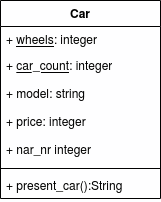
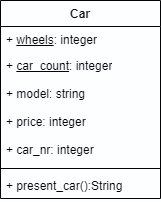
genomgång av oopython guide del 1

diff --git a/content/guide/kom-igang-med-objektorienterad-programmering-i-python/160_privat.md b/content/guide/kom-igang-med-objektorienterad-programmering-i-python/160_privat.md
@@ -1,15 +1,16 @@
 ---
 author: aar
 revision:
+    "2022-01-13": "(C, aar) Tog bort stycke om property decorator."
     "2021-01-13": "(B, aar) Omskriven och la till stycke om property decorator."
     "2020-01-16": "(A, aar) Första versionen, separerade privata attribut från mangling för att få in i kmom01."
 ...
 Information hiding
 ==================================
 
-Information hiding är när man gömmer intern data, så att den inte kan användas på fel sätt eller utanför den egna klassen. Låt oss säga att vi har en klass som har ett attribut som innehåller någon känslig data. Då vill vi inte att det ska gå att använda den hur som helst. Vi vill kanske kontrollera hur värdet sätts, man måste göra en speciell uträkning för att få ett nytt värde, eller att värdet bara är hemligt och man ska inte komma åt det utanför instansmetoder. Vi vill kunna begränsa tillgången till attribut eller metoder utanför klassdefinitionen.
+Information hiding är när man gömmer intern data, så att den inte kan användas på fel sätt eller utanför den egna instansen. Låt oss säga att vi har en klass som har ett attribut som innehåller någon känslig data. Då vill vi inte att det ska gå att använda den hur som helst. Vi vill kanske kontrollera hur värdet sätts, man måste göra en speciell uträkning för att få ett nytt värde, eller att värdet bara är hemligt och man ska inte komma åt det utanför instansmetoder. Vi vill kunna begränsa tillgången till attribut eller metoder utanför klassdefinitionen.
 
-Det finns tre olika klassificeringar inom klassisk objektorientering, publik, skyddad och privat. Men Python följer inte det till hundra utan här har vi istället publik, skyddad och "manglad" [name mangling](https://docs.python.org/3.7/tutorial/classes.html#private-variables). I tabellen nedanför finns en kort sammanfattning av vad de betyder. Här kommer vi gå igenom typen skyddad och vi går igenom manglad i [information hiding del2](guide/kom-igang-med-objektorienterad-programmering-i-python/230_information_hiding_2). Än så länge har alla våra attribut och metoder varit publika.
+Det finns tre olika klassificeringar inom klassisk objektorientering, publik, skyddad och privat. Men Python följer inte det till hundra utan här har vi istället publik, skyddad och "manglad" ([name mangling](https://docs.python.org/3.7/tutorial/classes.html#private-variables)). I tabellen nedanför finns en kort sammanfattning av vad de betyder. Här kommer vi gå igenom typen skyddad och vi går igenom manglad i [information hiding del2](guide/kom-igang-med-objektorienterad-programmering-i-python/230_information_hiding_2). Än så länge har alla våra attribut och metoder varit **publika**.
 
 | Implementation | Typ     | Syfte                                                                                 |
 |----------------|---------|---------------------------------------------------------------------------------------|
@@ -25,7 +26,7 @@ Privata attribut och metoder {#privatAttributMetoder}
 
 Som jag skrev ovan så finns inte _privat_ på samma sätt i Python som det finns i andra språk. Inom de flesta andra programmeringsspråk, när ett attribut är privat går det inte att använda det attributet i kod som inte ligger i den egna klassen. T.ex. i vår Car klass om vi gör `price` till ett privat attribut skulle vi inte kunna skriva `volvo.price` (om vi har ett Car objekt som ligger i variabeln volvo) men i en metod i klassen skulle vi kunna använda `self.price`.
 
-I python finns bara en överenskommelse att attribut/metoder vars namn börjar med ett `_` ska klassas som "privata". Vilket innebär att du ska bara använda attributen/metoderna om du verkligen vet vad du gör eller om du måste. Detta uppfyller mer kraven för typen skyddad, men i och med att det inte finns privat används både privat och skyddad för samma sak i Python.
+I python finns bara en överenskommelse att attribut/metoder vars namn börjar med ett `_` ska behandlas som "privata". Vilket innebär att du ska bara använda attributen/metoderna om du verkligen vet vad du gör eller om du måste. Detta uppfyller mer kraven för typen skyddad, men i och med att det inte finns privat används både privat och skyddad för samma sak i Python.
 
 `_<namn>` Används för att markera att en metod/attribut inte är en del av det publika api:et och den ska generellt sätt inte ändras eller användas utanför instansen. Det finns dock inget som stoppar någon från att göra det.
 
@@ -45,7 +46,7 @@ class SellSystem():
 
 Metoden sänker priset på en vissa bil under en vissa tid. `self.cars` är en dictionary med bilar där nummerplåtarna är nycklar till Car objekten som är värden. Här är `price` attributet publikt och vilken kod som helst kan ändra värdet och använda det. Om vi tänker oss att vi har en bil som kosta 200,000 och under black friday ska de sänka priset med 10,000 men säljaren är trött och råkar skriva in 100,000 istället, rätt stor skillnad på slutpriset. Om vi gör `price` till ett privat attribut och skapar en metod som måste användas när man ska ändra värdet kan vi lägga in en check som kollar att sänkningen aldrig är mer än 70% t.ex.
 
-Vi uppdaterar Car så att price är privat och skapar en set och en get metod för attributet.
+Vi uppdaterar Car så att price är privat och skapar en *set* och en *get* metod för attributet. *set* 
 
 [FIGURE src=/image/oopython/guide/car_priv_attr.png? class="right" caption="Klassdiagram över Car med instansmetod."]
 
@@ -72,7 +73,9 @@ class Car():
             raise ValueError("New price is too low. You can max lower it with 30%")
 ```
 
-Vi bytte namn på `price` till `_price` för att markera det som privat. Användningen av attributet ska kontrolleras av `get_price` och `set_price`. Get och set metoder är klassiskt inom objektorientering, vi använder dem för att kapsla in datan i ett objekt och styra dess användning. Man kan tycka att här behöver vi egentligen inte någon get method i och med att den bara returnerar värdet. Men i och med att attributet är privat ska vi ha det ändå. Bara för att förstärka att man inte ska använda attributet direkt. Vi testar använda den nya koden också.
+Vi bytte namn på `price` till `_price` för att markera det som privat. Användningen av attributet ska kontrolleras av `get_price` och `set_price`. Get och set metoder är klassiskt inom objektorientering, vi använder dem för att kapsla in data i ett objekt och styra hur de kan användas. Man kan tycka att här behöver vi egentligen inte någon get method i och med att den bara returnerar värdet. Men i och med att attributet är privat ska vi ha det ändå. Bara för att förstärka att man inte ska använda attributet direkt.
+
+Vi testar använda den nya koden.
 
 ```python
 car = Car("volvo v40", 40000)
@@ -89,14 +92,15 @@ print(car.present_car())
 AttributeError: 'self' object has no attribute 'price'
 ```
 
-Som ni ser kan vi egentligen fortfarande använda `car._price` men vi ska inte och det ger valideringsfel, `Access to a protected member _price of a client class (protected-access)`. Nu får vi fel när vi använder oss av `present_car` och även `__add__` och `__iadd__`. De metoderna använder fortfarande `price`. Vi behöver nu uppdatera de metoderna, bara för att vi i efterhand ändrade price till ett privat attribut. Det finns ett mer pythonic sätt att hantera privat/set/get metoder, vilket vi kommer kolla på längre ner.
+Som ni ser kan vi egentligen fortfarande använda `car._price` men vi ska inte och det ger valideringsfel, `Access to a protected member _price of a client class (protected-access)`. Nu får vi fel när vi använder oss av `present_car` och även `__add__` och `__iadd__`. De metoderna använder fortfarande `price`. Vi behöver nu uppdatera de metoderna, bara för att vi i efterhand ändrade price till ett privat attribut. Det finns ett mer pythonic sätt att hantera privat/set/get metoder, vilket vi kommer kolla på längre fram.
 
 Vi kan också göra metoder privata med `_` på samma sätt som attribut. Det görs oftast på metoder som bara används av andra metoder i en klass. T.ex. gör någon speciell uträkning men den kräver ett sammanhang som ges utav att en annan metod körs först. Så då vill vi inte att metoden ska vara tillgänglig som en publik metod. Genom att göra metoden privat visar vi för andra utvecklare att metoden inte ska användas.
 
+Uppdatera metoderna `present_car`, `__add__` och `__iadd__` så de funkar med price som privat attribut.
 
 
 
-Pythonic get() och set() {#pythonic}
+<!-- Pythonic get() och set() {#pythonic}
 -------------------------------------
 
 Vi skrev om vår kod vilket gjorde att vi nu har flera metoder som inte längre fungerar. Det är jobbigt och gör att vi behöver uppater våra metoder till att använda `_price` istället för `price`. Vi kan sätta detta i ett större perspektiv. Tänk om vi jobbar i ett stor system med 100+ klasser med 10+ utvecklare som skriver koden. Hur hade vår ändring ovanför påverkat alla andra klasser? All annan kod utanför vår Car klass som använde `price` attributet slutar också att fungera. Vilket gör att med vår ändring hade vi också behöver leta upp alla andra ställen i systemet som använder `price` och uppdatera den koden till att använda vår getter och setter metoder.
@@ -267,4 +271,4 @@ getter method called
 
 Om ni har svårt att hänga med i alla anrop, kopiera in koden i **Thonny eller annan debugger** och stega igenom koden! Det kommer hjälpa er att förstå koden mycket bättre än att bara titta på den och exekvera den.
 
-För en längre och lite mer djupgående förklaring av `@property` kan ni läsa [Python @property decorator](https://www.programiz.com/python-programming/property).
+För en längre och lite mer djupgående förklaring av `@property` kan ni läsa [Python @property decorator](https://www.programiz.com/python-programming/property). -->

diff --git a/content/guide/kom-igang-med-objektorienterad-programmering-i-python/150_operatoroverlagring.md b/content/guide/kom-igang-med-objektorienterad-programmering-i-python/150_operatoroverlagring.md
@@ -65,7 +65,7 @@ På sista kodraden kan ni se hur Python tolkar `volvo + bmw`. Vad händer om vi 
 AttributeError: 'int' object has no attribute 'price'
 ```
 
-Då kraschar programmet för att vi i `__add__` försöker använda attributet `price` på other, men heltal har inte det attributet. För varje typ vi vill att det ska gå att använda operatorn behöver vi lägga till ett case för det i koden. Det kan vi göra genom att kolla vilken datatyp `other` har och göra olika saker beroende på det.
+Då kraschar programmet för att i `__add__` försöker vi  använda attributet `price` på `other`, men heltal har inte det attributet. För varje datatyp vi vill operatorn på behöver vi lägga till ett case för det i koden. Det kan vi göra genom att kolla vilken datatyp `other` har och göra olika saker beroende på det.
 
 ```python
 class Car():
@@ -76,7 +76,7 @@ class Car():
             return self.price + other.price
         if isinstance(other, int):
             return self.price + other
-        raise ValueError("Car doesn't not support addition with object")
+        raise ValueError(f"Car doesn't not support addition with object of type {type(other)}")
 
 >>> print(bmw + volvo)
 250000
@@ -88,7 +88,7 @@ ValueError: Car doesn't not support addition with object
 
 Nu har vi överlagrat vår första operator. Det är ett programmerat beteende i Python att leta efter en `__add__()` metod och anropa den när man använder `+` operatorn och det finns en specifik metod för varje operator. Även för jämförelse operatorerna som `==, <, > <= >=` m.m, med de metoderna kan vi programmera hur två objekt av klassen Car jämförs t.ex. vilket objekt som räknas som störst eller minst. Vid subtraktion heter den metoden t.ex. `__sub__()` och vid `==` heter den `__eq__()`. Alla går att hitta i [Pythons dokumentation](https://docs.python.org/3/library/operator.html). 
 
-Med operatorer som `+=` och `-=` behöver man tänka efter på ett annat sätt så vi kollar på hur det ser ut när man överlagrar `+=`. 
+Med operatorer som `+=` och `-=` behöver man tänka på ett annat sätt så vi kollar på hur det ser ut när man överlagrar `+=`. 
 
 
 
@@ -97,7 +97,7 @@ Additions tilldelning {#iadd}
 
 För `+=`, även kallat _additions tilldelnings operatorn_, heter den magiska metoden vi behöver överlagra `__iadd__()`. Innan vi börjar koda den ska vi tänka efter vad det är operatorn betyder och vad den gör.
 
-`x += y` är samma sak som att skriva `x = x + y`. Vår metod behöver göra en vanlig addition och returnera det nya värdet som vi vill ska tilldelas till variabeln `x`. Om vi gör det med variabler som innehåller heltal är det inte så svårt. Då är det bara att addera och returnera summa. Så tilldelas det nya talet till `x`. Om vi däremot använder oss av två variabler som innehåller instanser av en klass vill vi att `x` efter additions tilldelningen fortfarande ska vara ett objekt men objektet ska ha uppdaterat något värde. Det vi returnerar i `__iadd__()` är vad variabeln `x` tilldelas. Om vi inte returnerar något kommer variabeln få `None` som värde efter operationen. För vårt exempel med priset på bilar betyder det att `__iadd__()` ska addera priset på två bilar, uppdatera priset i det vänstra objektet till summan och sist returnera instansen så `x` fortsätter referera till samma objekt den gjorde innan operationen. 
+`x += y` är samma sak som att skriva `x = x + y`. Vår metod behöver göra en vanlig addition och returnera det nya värdet som vi vill ska tilldelas till variabeln `x`. Om vi gör det med variabler som innehåller heltal är det inte så svårt. Då är det bara att addera och returnera summa. Då tilldelas det nya talet till `x`. Om vi däremot använder oss av två variabler som innehåller instanser av en klass, vill vi att `x` efter additions tilldelningen fortfarande ska vara ett objekt men objektet ska ha uppdaterat något värde. Det vi returnerar i `__iadd__()` kommer tilldelas till variabeln `x`. Om vi inte returnerar något kommer variabeln få `None` som värde efter operationen. För vårt exempel med priset på bilar betyder det att `__iadd__()` ska addera priset på två bilar, uppdatera priset i det vänstra objektet till summan och sist returnera instansen så `x` fortsätter referera till samma objekt den gjorde innan operationen. 
 
 Vi lägger till koden för det, men försök gärna själv först. Skapa en ny instansmetod som heter `__iadd__(self, other)` som uppdaterar `price` i `self` med summan av deras priser och returnerar `self`.
 

diff --git a/content/guide/kom-igang-med-objektorienterad-programmering-i-python/120_instansmetoder.md b/content/guide/kom-igang-med-objektorienterad-programmering-i-python/120_instansmetoder.md
@@ -14,7 +14,7 @@ En metod är en funktion som är definierad inuti en klass. Det finns tre typer:
 Instansmetoder {#instansmetoder}
 ----------------------------------
 
-Instansmetoder identifieras på att den första parametern heter `self`. I instansmetoder använder man sig av instansattributen. Om man vill ha en metod i en klass där man inte använder instansattributen skapar men en statisk metod istället.
+Instansmetoder identifieras på att den första parametern heter `self`. I instansmetoder använder man sig av instansattributen. Om man vill ha en metod i en klass där man inte använder instansattributen skapar man en statisk metod istället.
 
 
 
@@ -55,27 +55,25 @@ This car is of model volvo v40, costs 40000$ and is car number 1 of 2.
 This car is of model BMW, costs 50000$ and is car number 2 of 2.
 ```
 
-Notera att vi inte skickade med något argument till metoden i anropet. Detta är vad som utgör en instansmetod, Python skickar automatiskt objektet, som metoden anropades på, som första argument till metoden. I koden ovanför när vi kör `volvo.present_car()`, i `present_car(self)` metoden är `self` vårt `volvo` objekt.
+Notera att vi inte skickade med något argument till metoden i anropet. Detta är vad som utgör en instansmetod, Python skickar automatiskt en referens till instansen via `self` parametern. I koden ovanför när vi kör `volvo.present_car()`, i `present_car(self)` metoden är `self` vårt `volvo` objekt.
 
 Precis som vi såg i förra delen, att vi inte kan komma åt ett instansattribut från klassen kan vi inte komma åt en instansmetod från klassen heller. Man måste anropa metoden på ett objekt av en klass.
 
 ```
->>> car = Car("volvo v40", 40000)
->>> Car.present_car
-    print(car.present_car()
+>>> print(Car.present_car())
     TypeError: unbound method present_car() must be called with Car instance as first argument (got str instance instead)
 ```
 
 Om ni tycker att felmeddelandet låter konstigt kan ni fråga på föreläsningen varför vi får det felet.
 
-Testa runt själv med klassen, lägg till egna attribut, försöka ändra på dess värden och skriva ut dem. Skapa egna metoder och ändra attribut i dem. Lek med koden och testa era funderingar!
+Testa runt själv med klassen, lägg till egna attribut, försöka ändra på dess värden och skriva ut dem. Skapa egna metoder och ändra attribut i dem. Lek med koden och testa era funderingar! T.ex. ska ett attribut för färg och sen en metod där ni kan ändra färgen på ett bil objekt.
 
 
 
 Self {#self}
 -----------------------------
 
-Self hanteras av Python, det är som sagt inget vi behöver skicka med som argument när vi anropar en instansmetod. Men vi kan egentligen döpa om `self` till vad vi vill, det är bara ett parameternamn. Men i Python är det standard att döpa den till self. I många andra språk kallar man den `this`. Testa byt namn på `self` i metoden och kör koden igen för att se att den fortfarande fungerar.
+Self hanteras av Python, det är som sagt inget vi behöver skicka med som argument när vi anropar en instansmetod. Men vi kan egentligen döpa om `self` till vad vi vill, det är bara ett parameternamn. Men i Python är det standard att döpa den till self. I många andra språk kallas det `this` istället. Testa byt namn på `self` i metoden och kör koden igen för att se att den fortfarande fungerar.
 
 Det som sker när vi anropar en instans metod är att python tar instansen som metoden anropas på och skickar som första argumentet. Om vi tar `present_car()`på volvo variabeln som exempel.
 
@@ -90,7 +88,7 @@ Här skickar vi inget argument men vi har ändå `self` parametern. Det python g
 volvo.present_car(volvo)
 ```
 
-Så i metoden är self objekt som variabeln volvo pekar på.
+Så i metoden är `self` objektet som variabeln `volvo` pekar på.
 
 ```
 def present_car(volvo):

diff --git a/content/guide/kom-igang-med-objektorienterad-programmering-i-python/020_objektorienterad-programmering.md b/content/guide/kom-igang-med-objektorienterad-programmering-i-python/020_objektorienterad-programmering.md
@@ -22,18 +22,18 @@ Om vi vill skapa ett eget bil objekt utgår vi från en ritning som specificerar
 
 Vi tänker oss att du får alla tre bil objekt och för att kunna identifiera dem namnger du dem till "gamle bettan", "röda faran" och "spitfire". Alla tre är bil objekt men också individuella instanser av bilar.
 
-Vad har detta med OO (objektorienterad) programmering att göra? Jo, inom OO försöker vi återskapa konceptet av objekt i verkligheten till kod. Om vi ska programmera ett bil spel behöver vi skapa en ritning som definierar vilken data och funktionalitet en bil består utav. Detta kallar vi en "klass" och den skriver vi i vår kod. Ett objekt däremot är inte kod, vi skapar först ett objekt när vi har startat vårt program och använder klass koden för att skapa ett objekt. Ett objekt lever i minner på datorn.
+Vad har detta med OO (objektorienterad) programmering att göra? Jo, inom OO försöker vi återskapa konceptet av objekt i verkligheten till kod. Om vi ska programmera ett bilspel behöver vi skapa en ritning som definierar vilken data och funktionalitet en bil består utav. Detta kallar vi en "klass" och den skriver vi i vår kod. Ett objekt däremot är inte kod, vi skapar först ett objekt när vi har startat vårt program och använder klass koden för att skapa ett objekt. Ett objekt lever i minnet på datorn.
 
-I datorn har vi inte metall eller bensin, vi kan inte bygga faktiska bilar utan allt är "konceptuellt". Vi behöver representera informationen och funktionaliteten i en riktig bil med kod och i kod har vi variabler, datatyper och funktioner att jobba med. Klasser och objekt är ett annat sätt att programmera men det är fortfarande variabler, datatyper och funktioner fast skrivet på ett speciellt sätt och med några fler keywords i Python att använda. Detta är vad du ska lära dig i denna guiden, att kunna skriva en klass som definierar konceptet av en bil och sen skapa bil objekt med klassen.
+I datorn har vi inte metall eller bensin, vi kan inte bygga faktiska bilar utan allt är "konceptuellt". Vi behöver representera informationen och funktionaliteten i en riktig bil med kod och i kod har vi variabler, datatyper och funktioner att jobba med. Klasser och objekt är ett annat sätt att programmera men det är fortfarande variabler, datatyper och funktioner fast skrivet på ett speciellt sätt och med några fler keywords i Python att använda. Detta är vad du ska lära dig i denna guiden, att kunna skriva en klass som definierar konceptet av en bil och sen skapa bil objekt från klassen.
 
 
 
 Klass {#klass}
 ----------------------------------
 
-Ett objekt skapas utifrån en klass. En klass är en mall utifrån vilken man kan skapa nya objekt. När man skapat ett objekt kallas det en instans av klassen. Att skapa ett objekt kan kallas att [instansiera](http://en.wikipedia.org/wiki/Instance_(computer_science)) klassen till ett objekt, eller att instansiera ett objekt av klassen.
+Ett objekt skapas utifrån en klass. En klass är en mall utifrån vilken man kan skapa nya objekt. När man har skapat ett objekt kallas det en instans av klassen. Att skapa ett objekt kan kallas att [instansiera](http://en.wikipedia.org/wiki/Instance_(computer_science)) klassen till ett objekt, eller att instansiera ett objekt av klassen.
 
-Klassen skrivs i kod och definierar vilka attribut och metoder som finns i ett objekt av den klassen.
+Klassen skrivs i kod och definierar vilka attribut (variabler) och metoder (funktioner) som finns i ett objekt av den klassen.
 
 
 

diff --git a/content/guide/kom-igang-med-objektorienterad-programmering-i-python/110_klass.md b/content/guide/kom-igang-med-objektorienterad-programmering-i-python/110_klass.md
@@ -39,7 +39,7 @@ class Car():
     car_count = 0
 ```
 
-Sådär ja, vad fint det blev. Vi går vidare till att lägga till instansattribut som ska innehålla data som vi vill ska vara unika för varje objekt.
+Sådär ja, vad fint det blev. Vi går vidare till att lägga till instansattribut som ska innehålla data som vi vill ska vara individuellt för varje objekt.
 
 
 
@@ -64,7 +64,7 @@ class Car():
         self.car_nr = Car.car_count
 ```
 
-För att vi ska kunna initiera objekten med individuella värden har vi en parameter för varje instansattribut och tilldelar de argumenten som skickas med till våra instansattribut. I början av konstruktorn kan vi se `self` som ett nytt tomt objekt, det innehåller bara en koppling till att det tillhör klassen Car. Inne i `__init__` konstruerar vi vad objektet ska innehålla och vilken data som ska finns i objektet. Raden `self.model = model` gör att objektet (self) får ett attribut som heter "model" och det attributet tilldelas ett värde som har skickats med, parametern model. Raden under gör samma sak fast med ett attribut som heter "price". Sist i konstruktorn ökar vi det statiska attributet `car_count` med 1 och tilldelar det värdet till ett instansattribut. På så sätt kan vi hålla reda på vilket nummer i ordningen varje Car objekt har och hur många som skapats.
+För att vi ska kunna initiera objekten med individuella värden har vi en parameter för varje instansattribut och tilldelar de argumenten som skickas med till våra instansattribut. I början av konstruktorn kan vi se `self` som ett nytt tomt objekt, det innehåller bara en koppling till att det tillhör klassen Car. Inne i `__init__` konstruerar vi vad objektet ska innehålla och vilken data som ska finns i objektet. Raden `self.model = model` gör att objektet (self) får ett attribut som heter "model" och det attributet tilldelas ett värde som har skickats med parametern `model`. Raden under gör samma sak fast med ett attribut som heter `price`. Sist i konstruktorn ökar vi det statiska attributet `car_count` med 1 och tilldelar det värdet till ett instansattribut. På så sätt kan vi hålla reda på vilket nummer i ordningen varje Car objekt har och hur många som skapats.
 
 Nu har vi en klass som innehåller ett statisk attribut och tre instansattribut. Vi kollar hur det ser ut när vi anropar konstruktorn och skapar vårt första objekt.
 
@@ -100,8 +100,13 @@ Vi testar att skriva ut objekten:
 >>> print(volvo)
 <__main__.Car object at 0x7f824cc7b4a8>
 
->>> print("Antal bilar: {antal}".format(antal=Car.car_count))
+>>> print(f"Antal bilar: {Car.car_count}")
 Antal bilar: 2
+>>> print(f"Antal bilar: {bmw.car_count}")
+Antal bilar: 2
+>>> print(f"Antal bilar: {volvo.car_count}")
+Antal bilar: 2
+
 >>> print(bmw.car_nr)
 1
 >>> print(volvo.car_nr)

diff --git a/content/guide/kom-igang-med-objektorienterad-programmering-i-python/140_klass_metoder.md b/content/guide/kom-igang-med-objektorienterad-programmering-i-python/140_klass_metoder.md
@@ -7,7 +7,7 @@ revision:
 Klassmetoder
 ==================================
 
-Nästa typ av metod vi ska kolla på heter [klassmetod](https://docs.python.org/3/library/functions.html#classmethod) och som namnet antyder är det metoder som är koppla till klassen och inte instansen. I en instansmetod skickas automatiskt en instans som första argument och för en klassmetod skickas automatiskt klassen som första argument. I en klassmetod kan vi inte modifiera instansattribut utan bara statiska attribut.
+Nästa typ av metod vi ska kolla på heter [klassmetod](https://docs.python.org/3/library/functions.html#classmethod) och som namnet antyder är det metoder som är kopplade till klassen och inte instansen. I en instansmetod skickas automatiskt en instans som första argument och för en klassmetod skickas automatiskt klassen som första argument. I en klassmetod kan vi inte modifiera instansattribut utan bara statiska attribut.
 
 
 
@@ -74,7 +74,7 @@ Jag la även in en `print(self)` i "present_car" så vi kan se vad det är för 
 Factory method {#factory}
 ======================
 
-Ett vanligt användningsområde för klassmetoder är så kallade factory methods. En factory method är en metod som skapar ett objekt, precis som en konstruktor (`__init__()`). I Python kan man bara ha en konstruktor per klass, till skillnad från vissa andra språk där man kan ha flera med olika parameter listor. Därför är det vanligt att man skapar klassmetoder som alternativa konstruktorer och detta kallas factory methods. Ni kan hitta exempel och mer förklaring [här](https://www.programiz.com/python-programming/methods/built-in/classmethod).
+Ett vanligt användningsområde för klassmetoder är så kallade factory methods. En factory method är en metod som skapar ett objekt, precis som en konstruktor (`__init__()`). I Python kan man bara ha en konstruktor per klass, till skillnad från vissa andra språk där man kan ha flera med olika parameterlistor. Därför är det vanligt att man skapar klassmetoder som alternativa konstruktorer och detta kallas factory methods. Ni kan hitta exempel och mer förklaring [här](https://www.programiz.com/python-programming/methods/built-in/classmethod).
 
-Det finns också ett design pattern som heter [Factory](https://en.wikipedia.org/wiki/Factory_(object-oriented_programming)) men det syftar oftast på lite större factories där man har klasser och objekt enbart för att skapa objekt av andra klasser.
+<!-- Det finns också ett design pattern som heter [Factory](https://en.wikipedia.org/wiki/Factory_(object-oriented_programming)) men det syftar oftast på lite större factories där man har klasser och objekt enbart för att skapa objekt av andra klasser. -->
 

diff --git a/content/guide/kom-igang-med-objektorienterad-programmering-i-python/130_statiska_metoder.md b/content/guide/kom-igang-med-objektorienterad-programmering-i-python/130_statiska_metoder.md
@@ -9,7 +9,7 @@ Statiska metoder
 
 I förra delen lärde vi oss att Python alltid skickar med den egna instansen som argument till metoder i en klass (som vi döper till _self_ i parameterlistan). Detta är för att när man jobbar objektorienterat behöver man oftast använda instansen som en metod anropas på. Men ibland vill man ha metoder som inte använder en instans av en klass i en metod. Detta är oftast "hjälp" funktioner som man vill ha kopplade till en klass.
 
-Om vi bara skapar en vanlig instansmetod fast vi använder bara inte `self` parametern i metoden skulle det fungera men då kommer valideringen klaga med felet `Method could be a function (no-self-use)`. Här kommer _statiska metoder_ in i bilden. Det är en metod som ligger i en klass där Python inte automatisk skickar med instansen som första argumentet. Till statiska metoder skickas argument till metoden likadant som det fungerar för vanliga funktioner. 
+Om vi bara skapar en vanlig instansmetod fast vi använder inte `self` parametern i metoden skulle det fungera men då kommer valideringen klaga med felet `Method could be a function (no-self-use)`. Här kommer _statiska metoder_ in i bilden. Det är en metod som ligger i en klass där Python inte automatisk skickar med instansen som första argumentet. Till statiska metoder skickas argument till metoden likadant som det fungerar för vanliga funktioner. 
 
 
 
@@ -98,4 +98,4 @@ Som vi kan förväntas oss kraschar programmet för att vi inte skickade med nå
 This car is of model BMW, costs 100000$ and is car number 1 of 1.
 ```
 
-Så här ska vi inte ska metoder egentligen med staticmethod och sen skicka in instansen manuellt. Jag gjorde bara detta för att försöka visa på hur det fungerar.
+Så här ska vi inte skriva metoder egentligen med staticmethod och sen skicka in instansen manuellt. Jag gjorde bara detta för att försöka visa på hur det fungerar.

diff --git a/content/guide/kom-igang-med-objektorienterad-programmering-i-python/170_objekt_i_objekt.md b/content/guide/kom-igang-med-objektorienterad-programmering-i-python/170_objekt_i_objekt.md
@@ -22,7 +22,7 @@ Målet är att ha två klasser, en klass för bilar och en klass för tävlingsb
 
 Vi börjar med att skapa en klass som är tävlingsbanan och ger den ett attribut för att hålla bilarna och skapar en metod som skapar fyra Car objekt.
 
-[FIGURE src=/image/oopython/guide/rt_init.png? class="right" caption="Klassdiagram över RaceTrack."]
+[FIGURE src=/image/oopython/guide/rt_init.png? class="right" caption="Klassdiagram över RaceTrack. `List<Car>` betyder att `cars` är en lista med Car objekt."]
 
 ```python
 from car import Car
